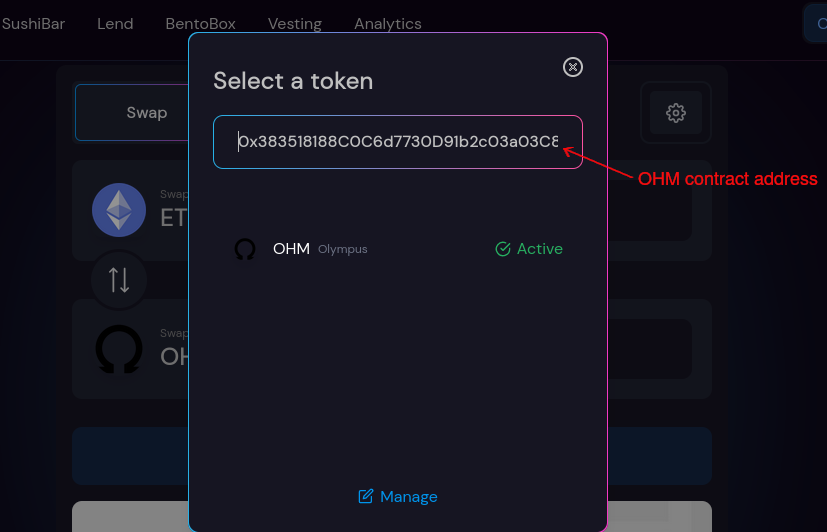
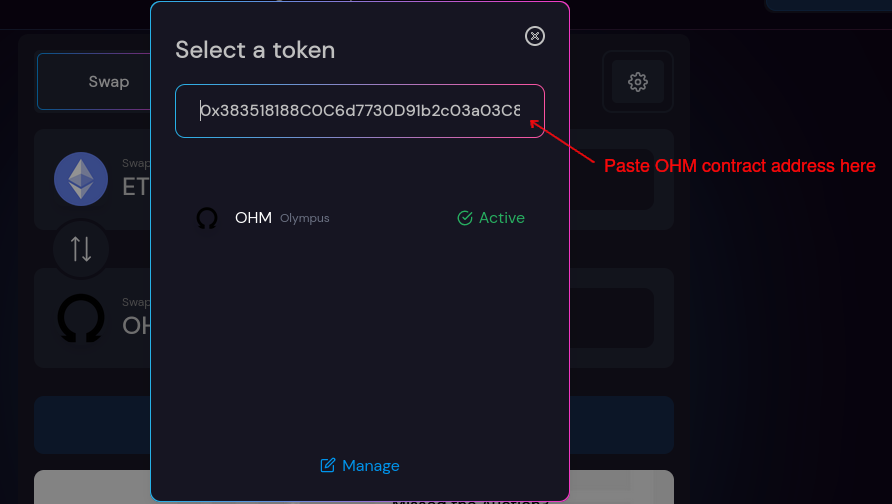
Paste OHM contract address rather than manually inserting it

diff --git a/using-the-website/staking.md b/using-the-website/staking.md
@@ -6,10 +6,10 @@ Staking allows you to earn OHM passively via auto-compounding. By staking your O
 
 1. Go to [this Sushiswap swap page](https://app.sushi.com/swap?outputCurrency=0x383518188c0c6d7730d91b2c03a03c837814a899).
 
-2. Make sure the output currency is OHM. You can also manually insert [OHM contract address](https://docs.olympusdao.finance/references/contracts#ohm) in the output currency field to ensure you are swapping the right token.
+2. Make sure the output currency is OHM. You can also copy and paste [OHM contract address](https://docs.olympusdao.finance/references/contracts#ohm) in the output currency field to ensure you are swapping the right token.
 
 <p align="center">
-   <img width="827" height="532" src="../.gitbook/assets/using-the-website/staking/ohm_contract.png" alt="Manually insert OHM contract address">
+   <img width="892" height="504" src="../.gitbook/assets/using-the-website/staking/ohm_contract.png" alt="Paste OHM contract address">
 </p>
 
 3. You can select any input currency based on your available wallet balance. It is recommended to use DAI as the input currency to minimize the slippage.
